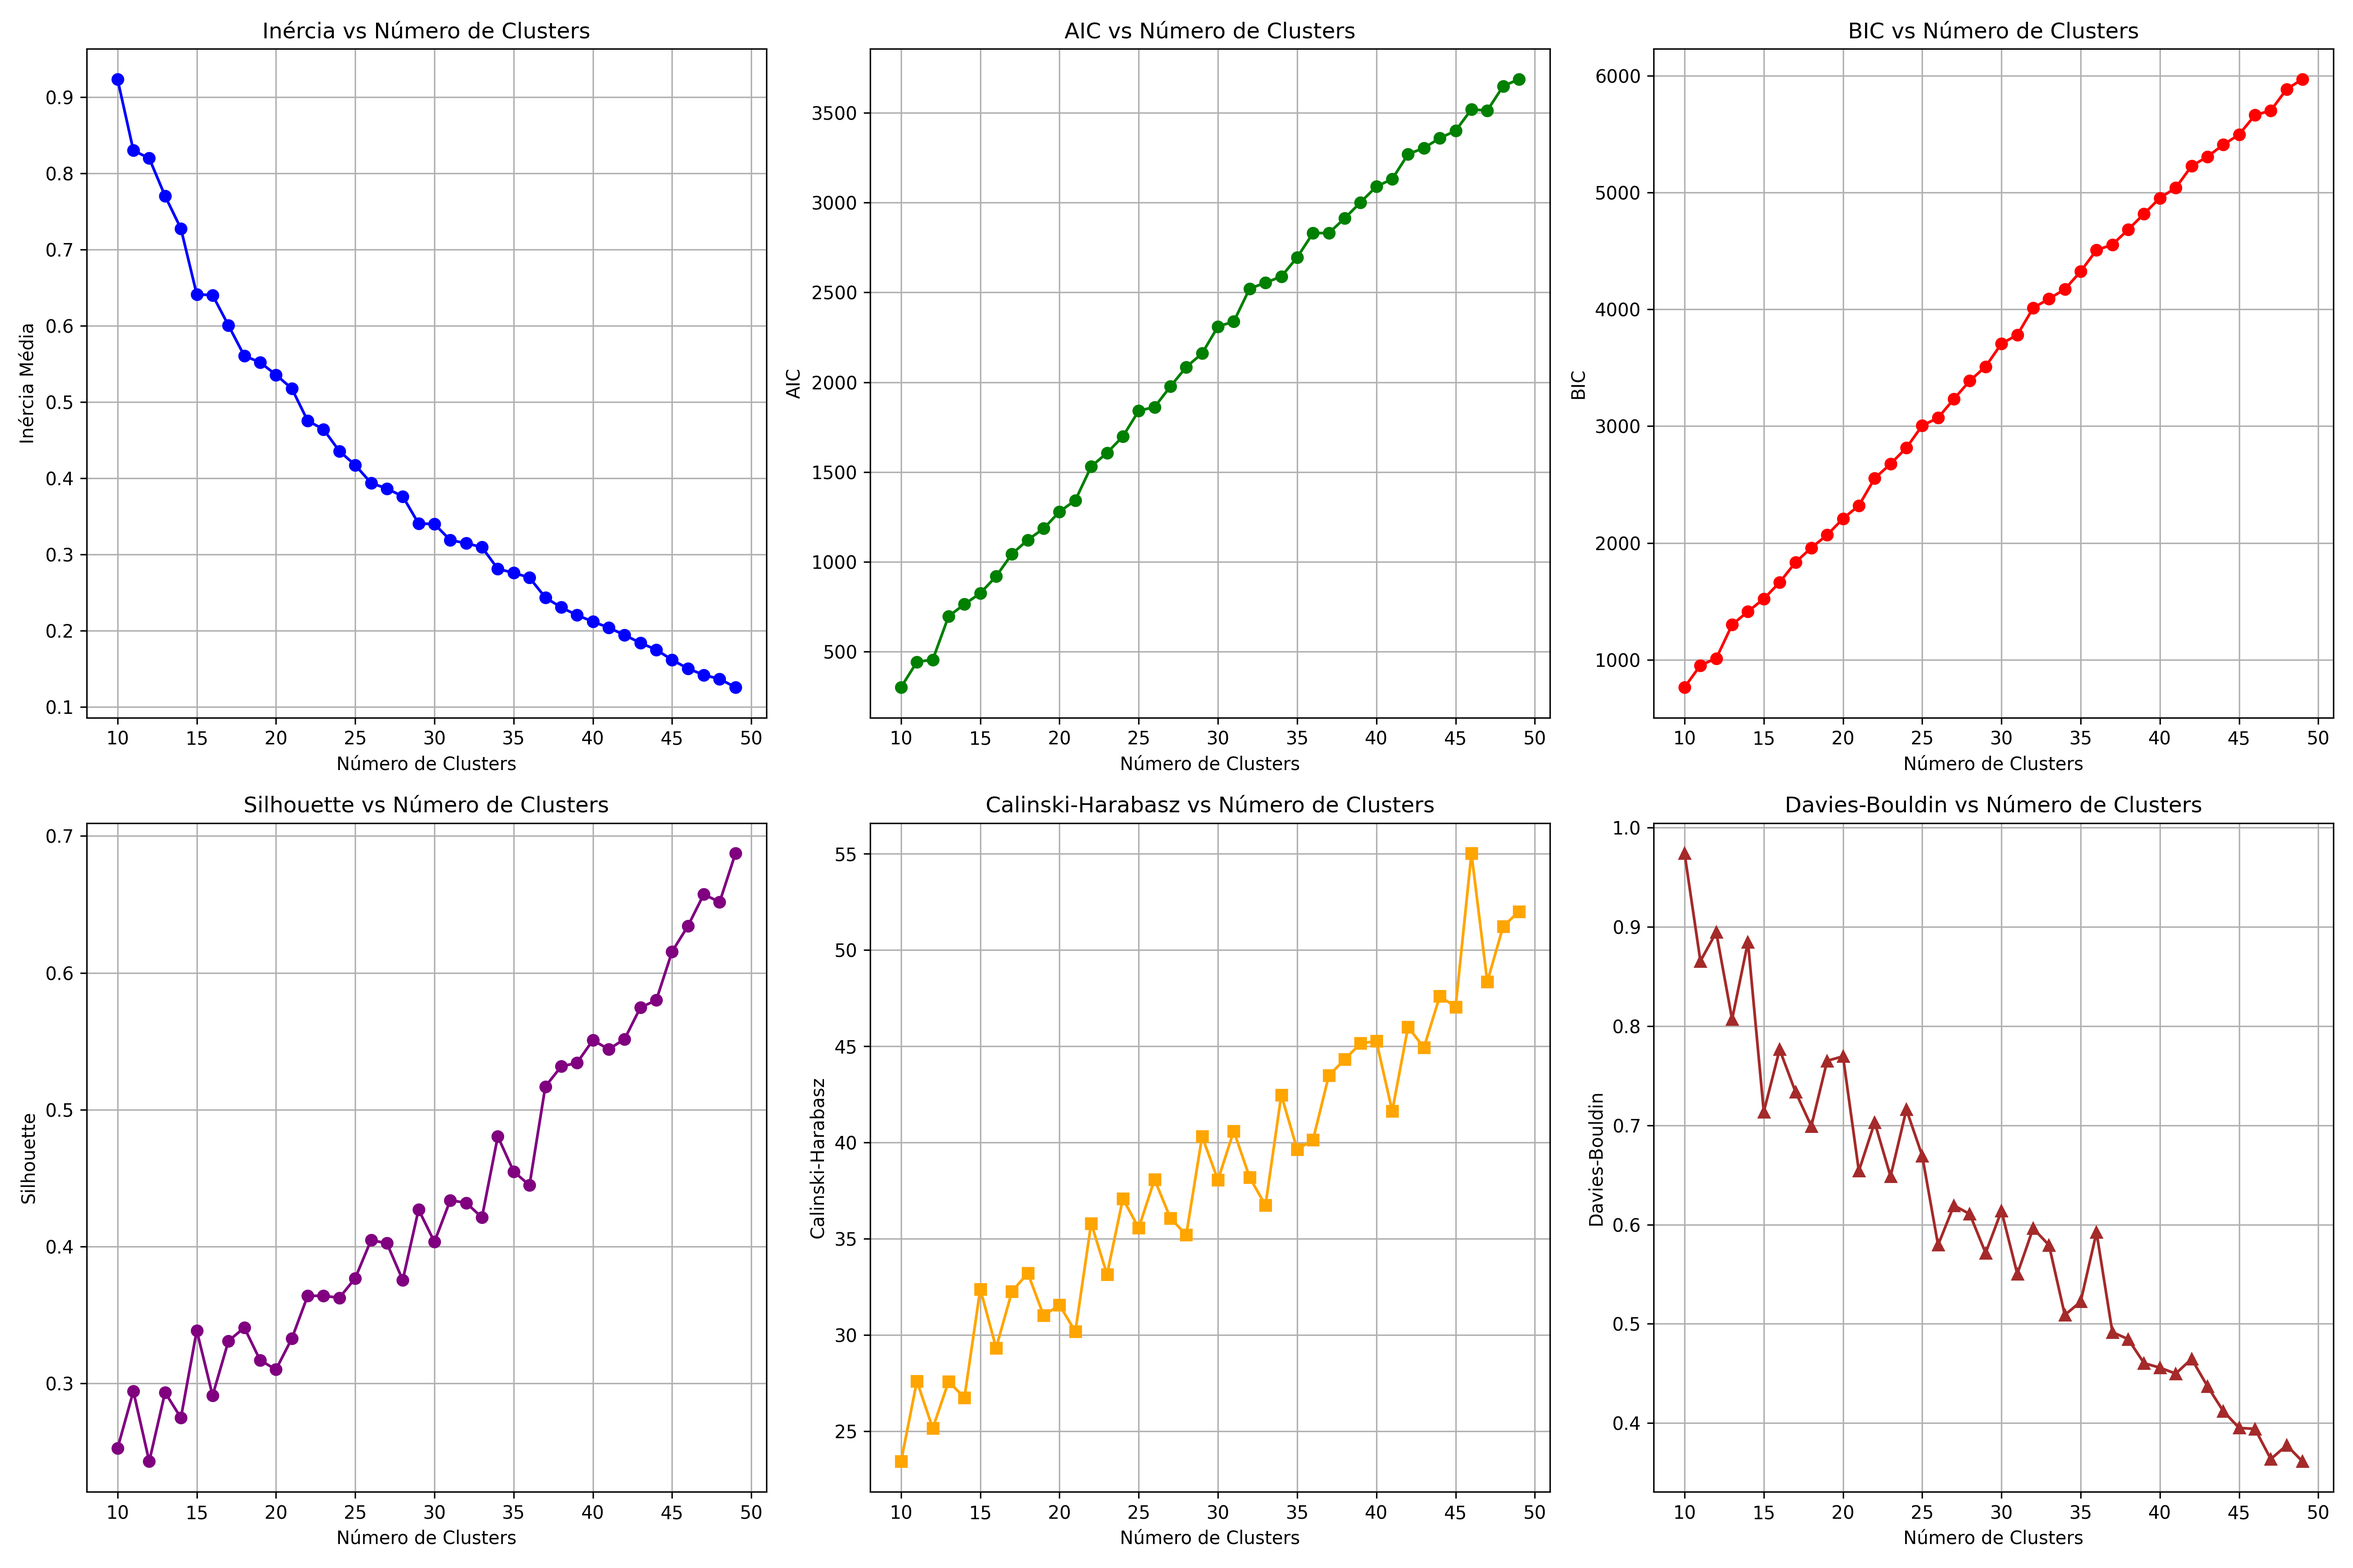
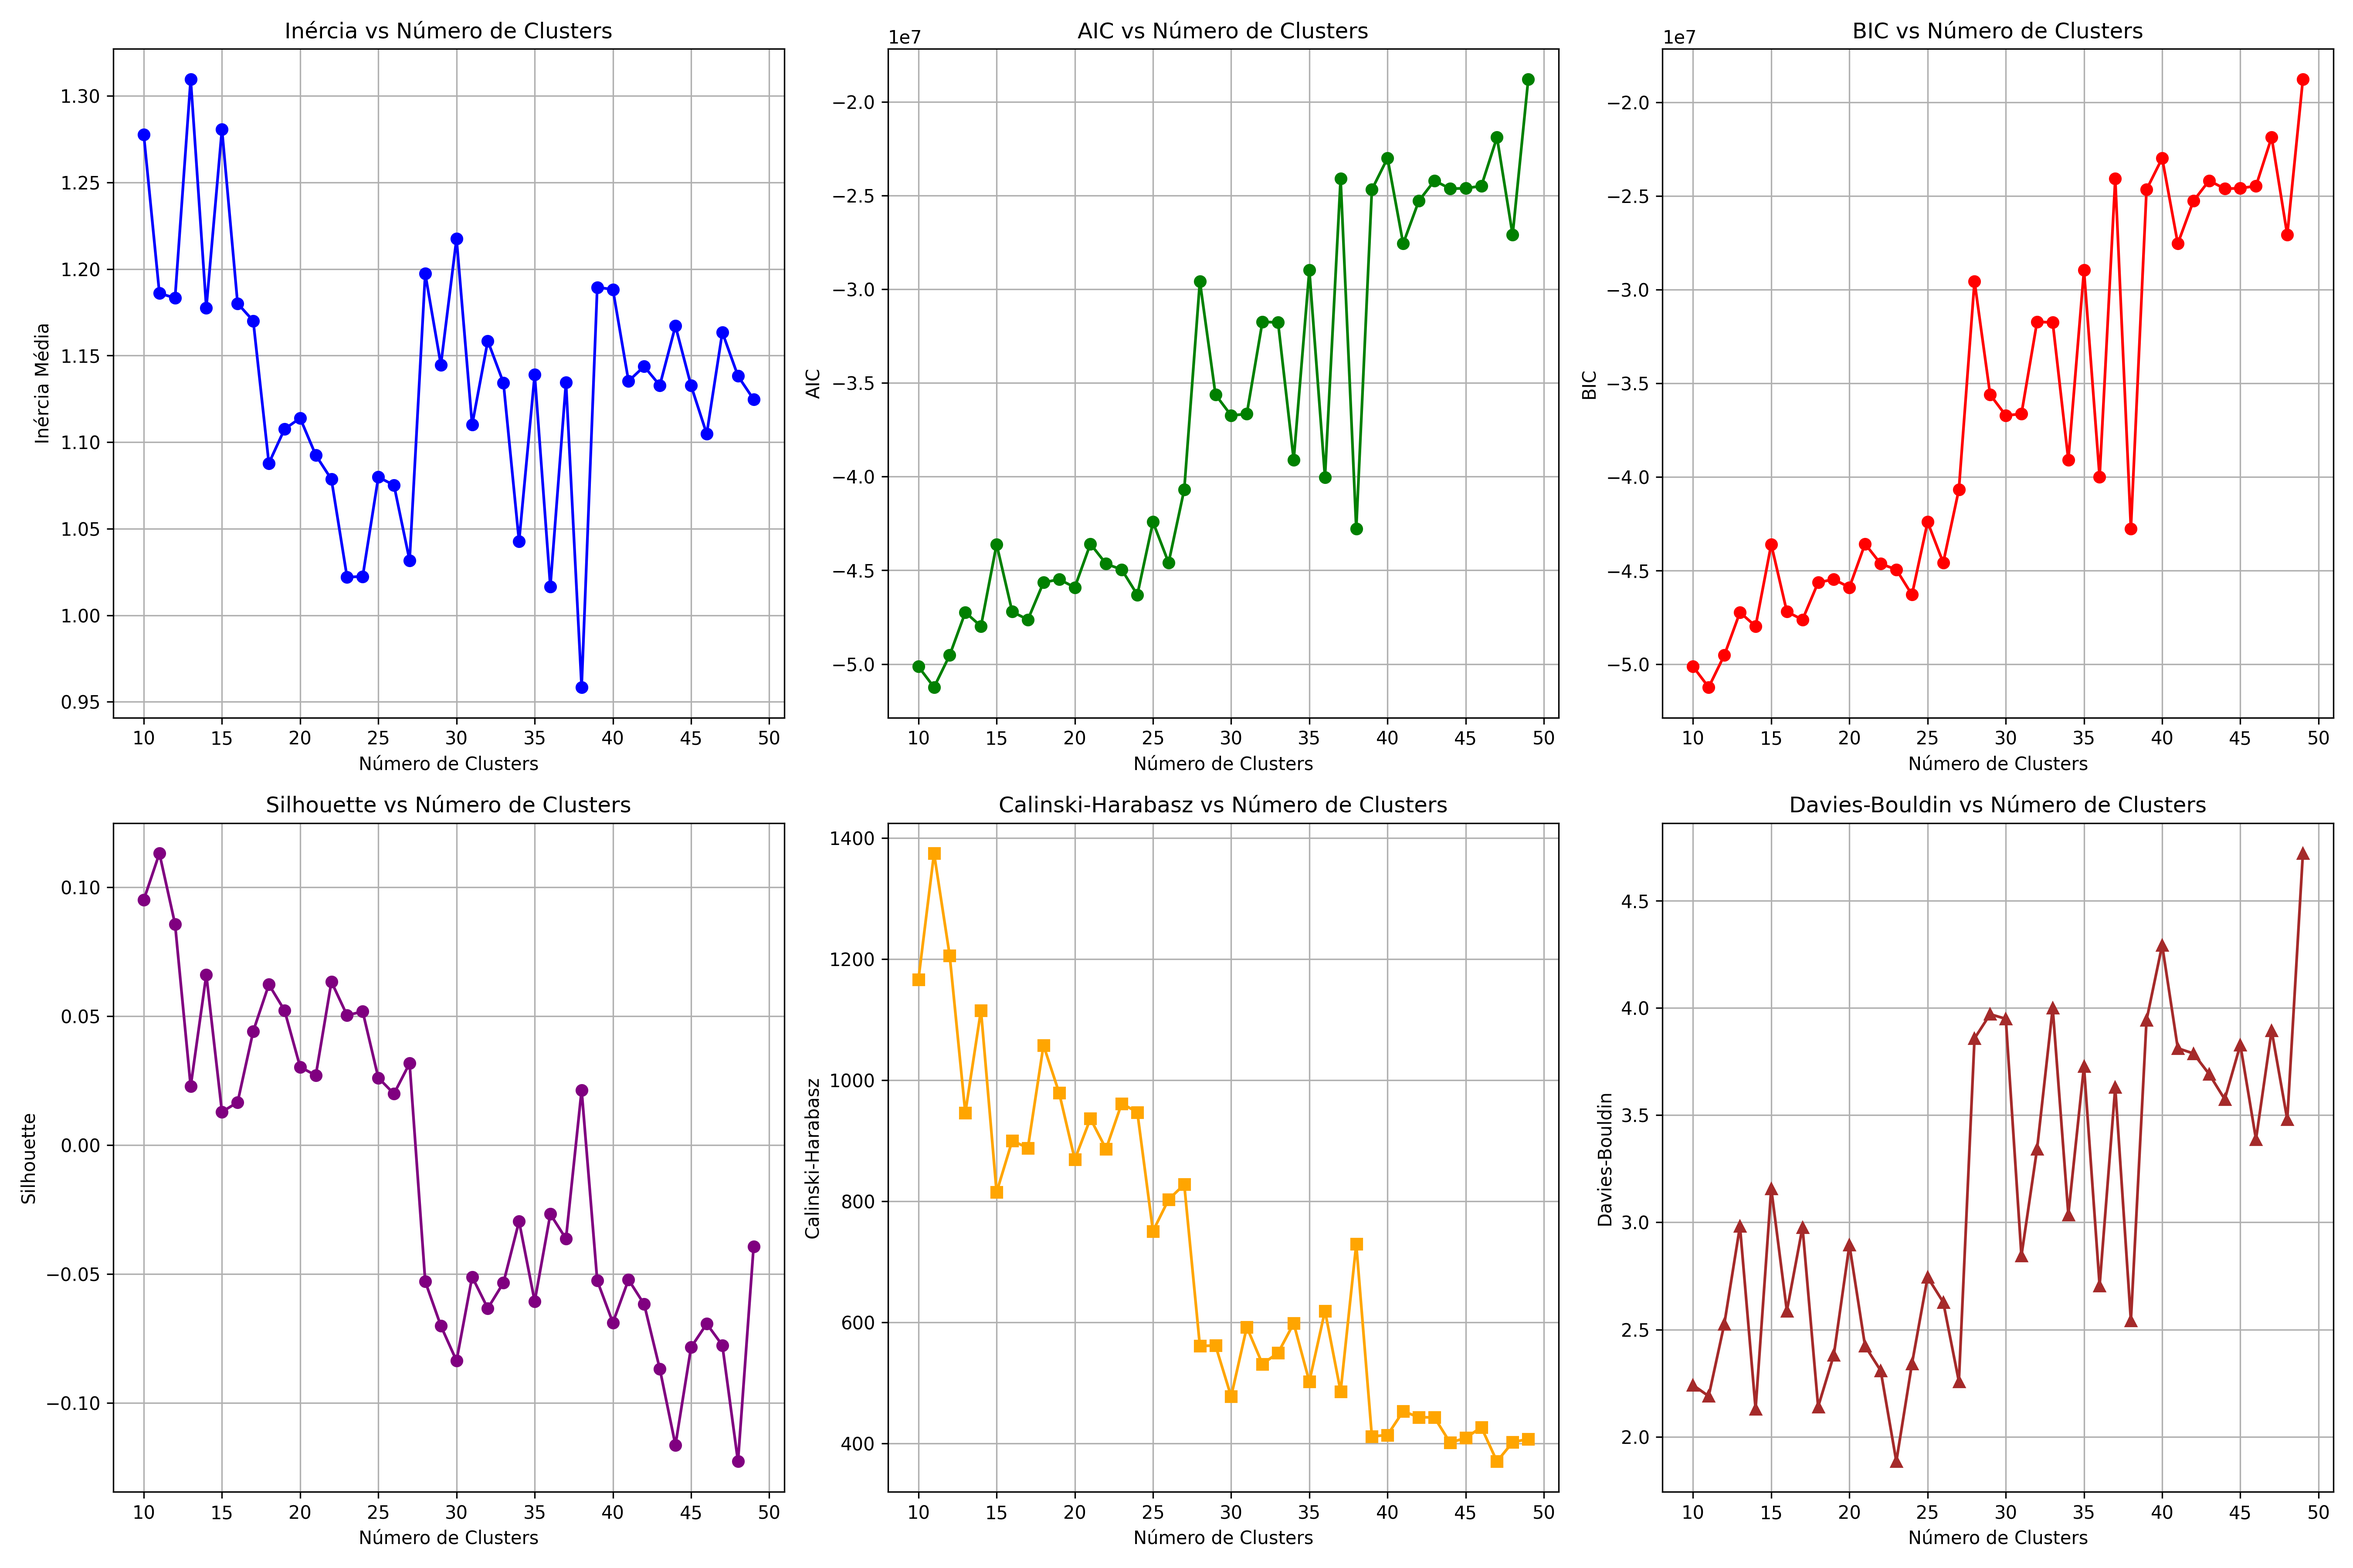
visualização clusters

diff --git a/arquivos/rascunho.py b/arquivos/rascunho.py
@@ -12,7 +12,7 @@ import matplotlib.pyplot as plt
 from joblib import Parallel, delayed
 
 # --------------------------------------------
-# Métricas de avaliação usando cupy para otimização dos cálculos
+# Métricas Customizadas com CuPy
 # --------------------------------------------
 
 def silhouette_score_cupy(X, labels):
@@ -147,29 +147,33 @@ MAX_ITER = 100
 
 def preprocessamento():
     os.makedirs('gráficos', exist_ok=True)
+    print("[1] Iniciando processamento...")
     start_time = time.time()
+
+    print("[2] Carregando e processando dados...")
     dados_taxi = pd.read_parquet('/home-ext/caioloss/Dados/viagens_lat_long.parquet', engine='pyarrow')
     dados_taxi['tpep_pickup_datetime'] = pd.to_datetime(dados_taxi['tpep_pickup_datetime'])
 
     dados_taxi['hora_do_dia'] = dados_taxi['tpep_pickup_datetime'].dt.hour
     dados_taxi['dia_da_semana'] = dados_taxi['tpep_pickup_datetime'].dt.dayofweek
 
-    dados_taxi = dados_taxi[dados_taxi['dia_da_semana'].between(0, 4)]
+    print("[3] Filtrando apenas segunda a sexta...")
+    dados_taxi = dados_taxi[dados_taxi['dia_da_semana'].between(5, 8)]
     dados_taxi = dados_taxi.drop(columns=['dia_da_semana'])
+
     cols = [
         'hora_do_dia',
         'PU_longitude', 'PU_latitude',
         'DO_longitude', 'DO_latitude'
     ]
     dados_taxi = dados_taxi[cols].dropna()
-    #Para testar mudanças no código, use um valor pequeno de frac
-    #dados_taxi = dados_taxi.sample(frac=0.00001, random_state=RANDOM_STATE)
+    dados_taxi = dados_taxi.sample(frac=0.5, random_state=RANDOM_STATE)
 
     scaler = StandardScaler()
     dados_scaled = scaler.fit_transform(dados_taxi).astype(np.float32)
     dados_scaled_cpu = torch.tensor(dados_scaled)
     
-    print(f"Pré-processamento concluído em {time.time() - start_time:.2f}s")
+    print(f"[6] Pré-processamento concluído em {time.time() - start_time:.2f}s")
     return dados_scaled_cpu
 
 def fit_gmm(n_clusters, data_cpu):
@@ -177,7 +181,7 @@ def fit_gmm(n_clusters, data_cpu):
         torch.cuda.init()
         device = torch.device("cuda")
         
-        print(f"Iniciando GMM com {n_clusters} clusters...")
+        print(f"[7] Iniciando GMM com {n_clusters} clusters...")
         data_gpu = data_cpu.to(device)
         
         gmm = GaussianMixture(
@@ -203,6 +207,7 @@ def fit_gmm(n_clusters, data_cpu):
         aic = 2 * num_params - 2 * total_log_likelihood
         bic = num_params * np.log(n_samples) - 2 * total_log_likelihood
         
+        print(f"[8] Concluído {n_clusters} clusters | Inércia: {inertia:.2f} | AIC: {aic:.2f} | BIC: {bic:.2f}")
         return {
             'n_clusters': n_clusters,
             'inertia': inertia,
@@ -215,21 +220,17 @@ if __name__ == "__main__":
     dados_scaled_cpu = preprocessamento()
     clusters_range = range(10, 50)
     
-    print("Iniciando avaliação paralela de clusters...")
+    print("[9] Iniciando avaliação paralela de clusters...")
     start_fit = time.time()
     
     results = Parallel(n_jobs=N_JOBS, prefer="processes")(
         delayed(fit_gmm)(n, dados_scaled_cpu) for n in clusters_range
     )
     
-    print(f"Todos clusters concluídos em {time.time() - start_fit:.2f}s")
-    
+    print(f"[10] Todos clusters concluídos em {time.time() - start_fit:.2f}s")
     data_np = dados_scaled_cpu.numpy()
     n_total = len(data_np)
-
-    #Calcula métricas usando apenas uma amostragem dos dados
-    #sample_size = int(0.3 * n_total)
-    sample_size = int(1.0 * n_total)
+    sample_size = int(0.01 * n_total)
     
     np.random.seed(RANDOM_STATE)
     sample_indices = np.random.choice(n_total, size=sample_size, replace=False)
@@ -238,7 +239,7 @@ if __name__ == "__main__":
     # Conversão para CuPy
     data_sample_cupy = cp.asarray(data_sample)
     
-for res in results:
+    for res in results:
         labels = res['labels']
         labels_sample = labels[sample_indices]
         print(f"Calculando métricas para {res['n_clusters']} clusters...")
@@ -271,7 +272,7 @@ for res in results:
 
 results = sorted(results, key=lambda x: x['n_clusters'])
 # Salvar métricas em arquivo
-with open('metricas_clusters.txt', 'w') as f:
+with open('metricas_clusters_fds.txt', 'w') as f:
     f.write("n_clusters, inertia, aic, bic, silhouette, calinski_harabasz, davies_bouldin\n")
     for i, res in enumerate(results):
         f.write(f"{res['n_clusters']}, {res['inertia']}, {res['aic']}, {res['bic']}, {res['silhouette']}, {res['calinski_harabasz']}, {res['davies_bouldin']}\n")
@@ -336,8 +337,8 @@ plt.title('Davies-Bouldin vs Número de Clusters')
 plt.grid(True)
 
 plt.tight_layout()
-plt.savefig('gráficos/avaliacao_clusters_gmm.png', dpi=300)
+plt.savefig('gráficos/avaliacao_clusters_gmm_fds.png', dpi=300)
 plt.show()
 
-print("[11] Gráficos gerados e salvos em 'gráficos/avaliacao_clusters_gmm.png'")
-print("[12] Métricas salvas em 'metricas_clusters.txt'")
+print("[11] Gráficos gerados e salvos em 'gráficos/avaliacao_clusters_gmm_fds.png'")
+print("[12] Métricas salvas em 'metricas_clusters_dias_fds.txt'")

diff --git a/arquivos/validação_métricas_gmm_pycave.py b/arquivos/validação_métricas_gmm_pycave.py
@@ -157,8 +157,8 @@ def preprocessamento():
     dados_taxi['hora_do_dia'] = dados_taxi['tpep_pickup_datetime'].dt.hour
     dados_taxi['dia_da_semana'] = dados_taxi['tpep_pickup_datetime'].dt.dayofweek
 
-    print("[3] Filtrando apenas segunda a sexta...")
-    dados_taxi = dados_taxi[dados_taxi['dia_da_semana'].between(0, 4)]
+   # print("[3] Filtrando apenas segunda a sexta...")
+   # dados_taxi = dados_taxi[dados_taxi['dia_da_semana'].between(0, 4)]
     dados_taxi = dados_taxi.drop(columns=['dia_da_semana'])
 
     cols = [
@@ -167,7 +167,7 @@ def preprocessamento():
         'DO_longitude', 'DO_latitude'
     ]
     dados_taxi = dados_taxi[cols].dropna()
-  #  dados_taxi = dados_taxi.sample(frac=0.00001, random_state=RANDOM_STATE)
+    dados_taxi = dados_taxi.sample(frac=0.5, random_state=RANDOM_STATE)
 
     scaler = StandardScaler()
     dados_scaled = scaler.fit_transform(dados_taxi).astype(np.float32)
@@ -228,11 +228,10 @@ if __name__ == "__main__":
     )
     
     print(f"[10] Todos clusters concluídos em {time.time() - start_fit:.2f}s")
-    #teste
     data_np = dados_scaled_cpu.numpy()
     n_total = len(data_np)
-   # sample_size = int(0.3 * n_total)
-    sample_size = int(1.0 * n_total)
+    sample_size = int(0.3 * n_total)
+    #sample_size = int(1.0 * n_total)
     
     np.random.seed(RANDOM_STATE)
     sample_indices = np.random.choice(n_total, size=sample_size, replace=False)
@@ -274,7 +273,7 @@ for res in results:
 
 results = sorted(results, key=lambda x: x['n_clusters'])
 # Salvar métricas em arquivo
-with open('metricas_clusters.txt', 'w') as f:
+with open('metricas_clusters_todos_dias.txt', 'w') as f:
     f.write("n_clusters, inertia, aic, bic, silhouette, calinski_harabasz, davies_bouldin\n")
     for i, res in enumerate(results):
         f.write(f"{res['n_clusters']}, {res['inertia']}, {res['aic']}, {res['bic']}, {res['silhouette']}, {res['calinski_harabasz']}, {res['davies_bouldin']}\n")
@@ -339,8 +338,8 @@ plt.title('Davies-Bouldin vs Número de Clusters')
 plt.grid(True)
 
 plt.tight_layout()
-plt.savefig('gráficos/avaliacao_clusters_gmm.png', dpi=300)
+plt.savefig('gráficos/avaliacao_clusters_gmm_todos_dias.png', dpi=300)
 plt.show()
 
-print("[11] Gráficos gerados e salvos em 'gráficos/avaliacao_clusters_gmm.png'")
-print("[12] Métricas salvas em 'metricas_clusters.txt'")
+print("[11] Gráficos gerados e salvos em 'gráficos/avaliacao_clusters_gmm_todos_dias.png'")
+print("[12] Métricas salvas em 'metricas_clusters_dias_uteis.txt'")
